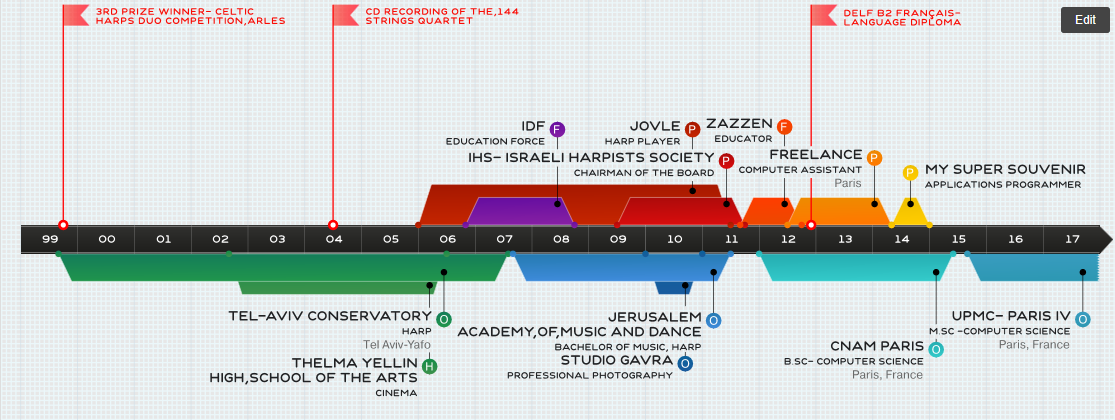
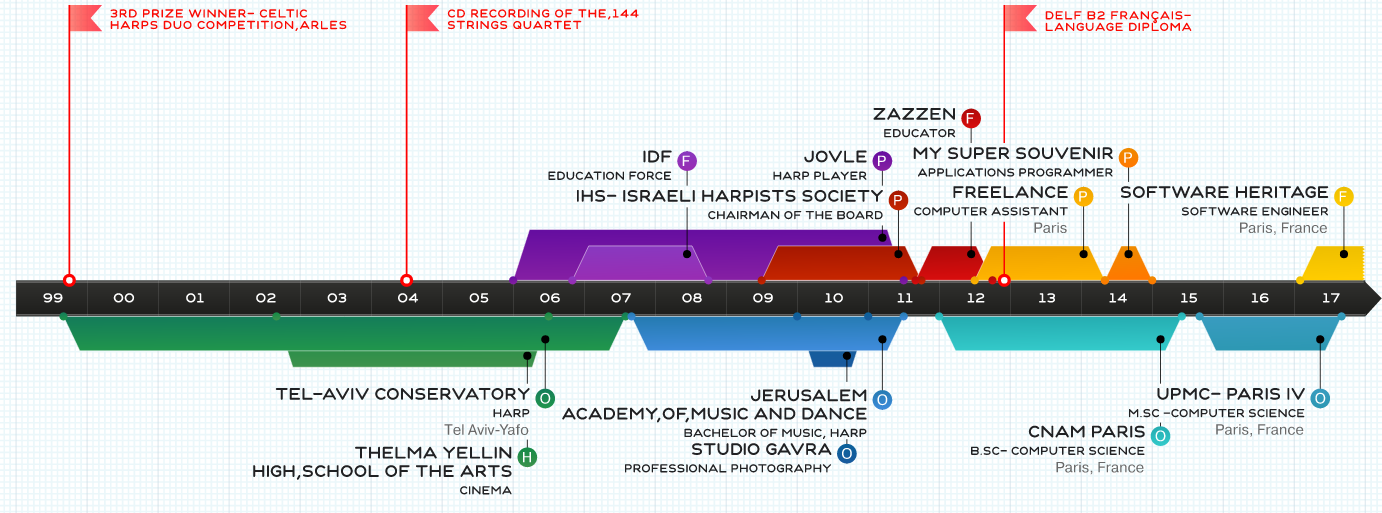
updated site with current cv

Changed region(s): [[0.0, 0.0, 1.0, 0.9905], [0.7318, 0.0, 0.8538, 0.0619], [0.9453, 0.0, 1.0, 0.0929]]

diff --git a/content.html b/content.html
@@ -12,10 +12,10 @@
         Currently, I'm preparing a M.sc degree in software engineering while creating my professional path in life.
       </p>
       <p>
-        Recently I have found my dream internship as a research student for the
+        Recently I have found my dream job as a software engineer and metadata specialist for the
         <b  style="font-weight: bold; font-size: 120%; "><a href="https://www.softwareheritage.org/" target="blank">Software Heritage
         </a>
-      </b>, team at the
+      </b> team at the
         <b  style="font-weight: bold; font-size: 120%; "><a href="http://www.inria.fr" target="blank">
          Inria</a>
         </b> research center.
@@ -45,9 +45,6 @@
 
                   <div class =" row text-left margin-top">Add me to your network:</div>
                   <a href="https://www.linkedin.com/in/morane-otilia-gruenpeter-81008232" target="_blank"><div class="btn btn-primary text-center">Linkedin</div></a>
-
-                  <a href="https://twitter.com/moraneottilia" class="twitter-follow-button" data-show-count="false">Follow @moraneottilia</a>
-                  <script async src="//platform.twitter.com/widgets.js" charset="utf-8"></script>
                 </div>
 
       </div>

diff --git a/en/contact.html b/en/contact.html
@@ -14,12 +14,12 @@
 		    <br />
     		<br />
 			<p >I love discovering new ideas so don't hesitate to write to me
-			 at morane.otilia@gmail.com.
+			 at morane.gg@gmail.com.
 
 
 			</p>
 			<p class="contenu">
-					feel free to download my <a href="docs/cv2014.pdf" title="resume"target="_blank" class="tocheck">CV</a> or go to my <a href="http://resumup.com/morane_gg" title="resumup"target="_blank" class="tocheck">ResumUp</a> profile.
+					feel free to download my <a href="docs/cv2017.pdf" title="resume"target="_blank" class="tocheck">CV</a> or go to my <a href="http://resumup.com/morane_gg" title="resumup"target="_blank" class="tocheck">ResumUp</a> profile.
 			</p>
 		</div>
 		<div class="col-md-3 hidden-xs hidden-sm"></div>

diff --git a/menu.html b/menu.html
@@ -9,7 +9,7 @@
                     <span class="icon-bar"></span>
                     <span class="icon-bar"></span>
                 </button>
-                <a class="navbar-brand topnav" href="#">Morane Otilia</a>
+                <a class="navbar-brand topnav" href="">Morane Otilia</a>
             </div>
             <!-- Collect the nav links, forms, and other content for toggling -->
             <div class="collapse navbar-collapse  topnavbis" id="bs-example-navbar-collapse-1">
